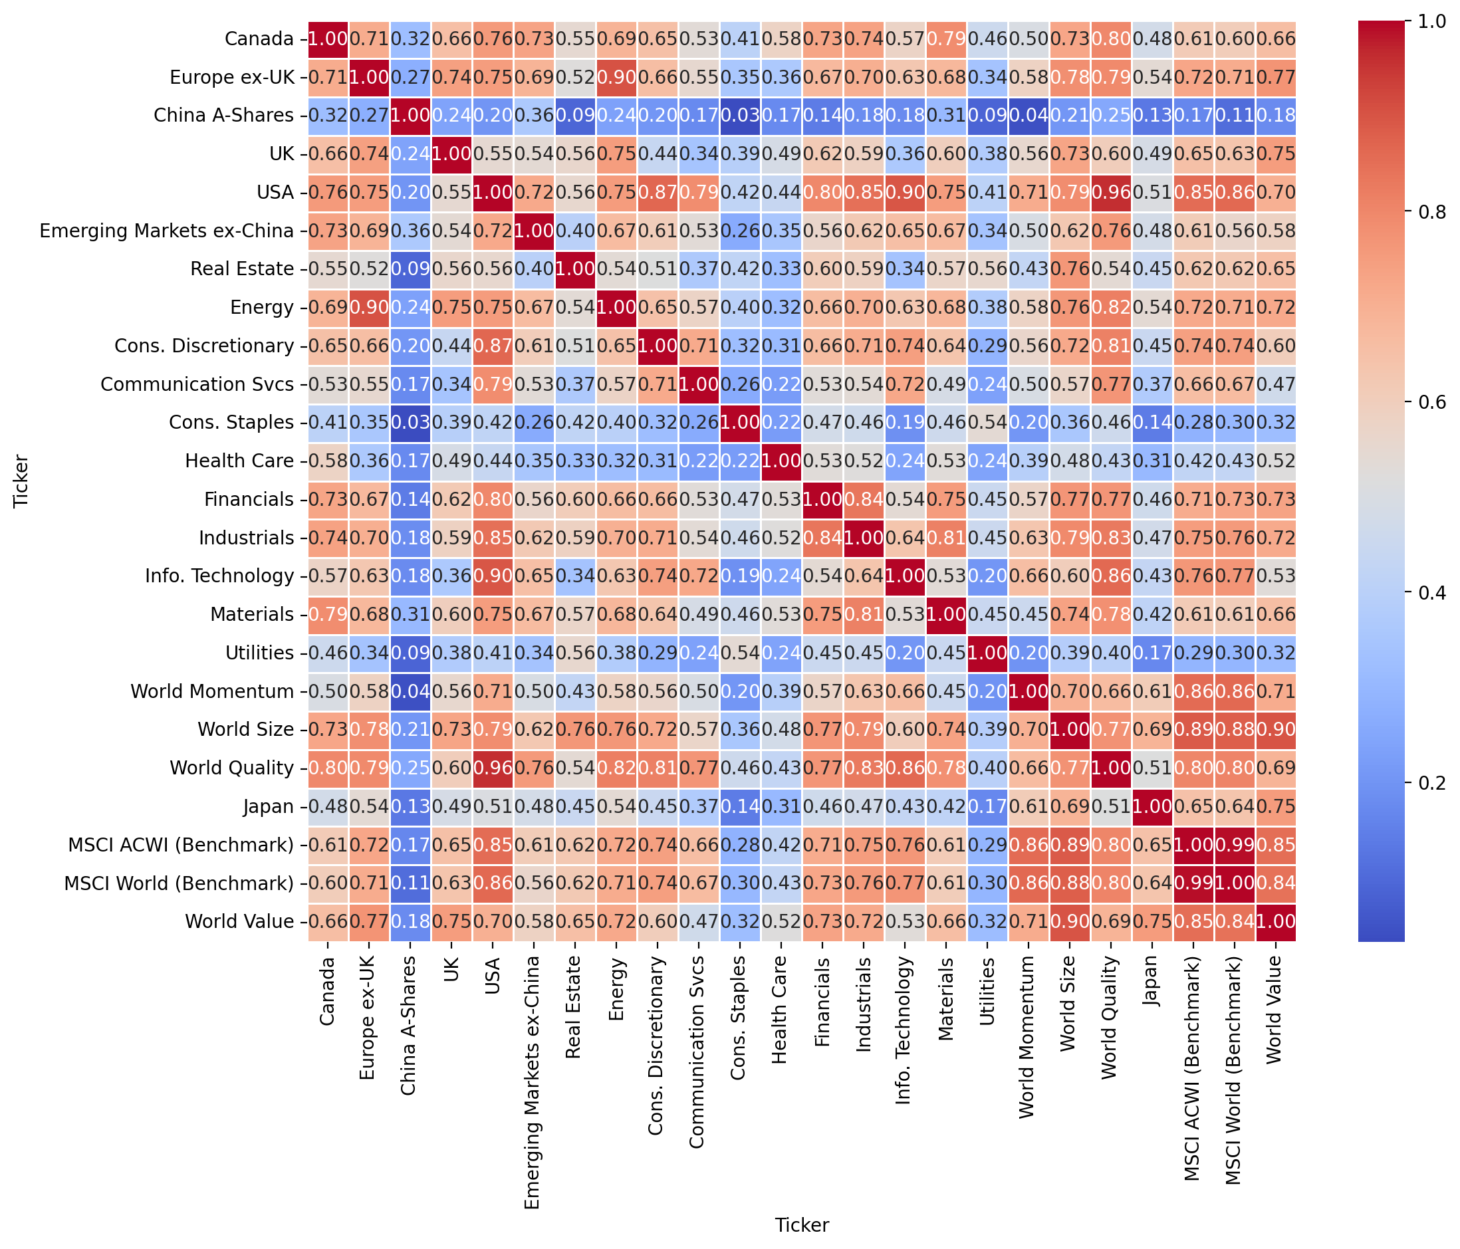
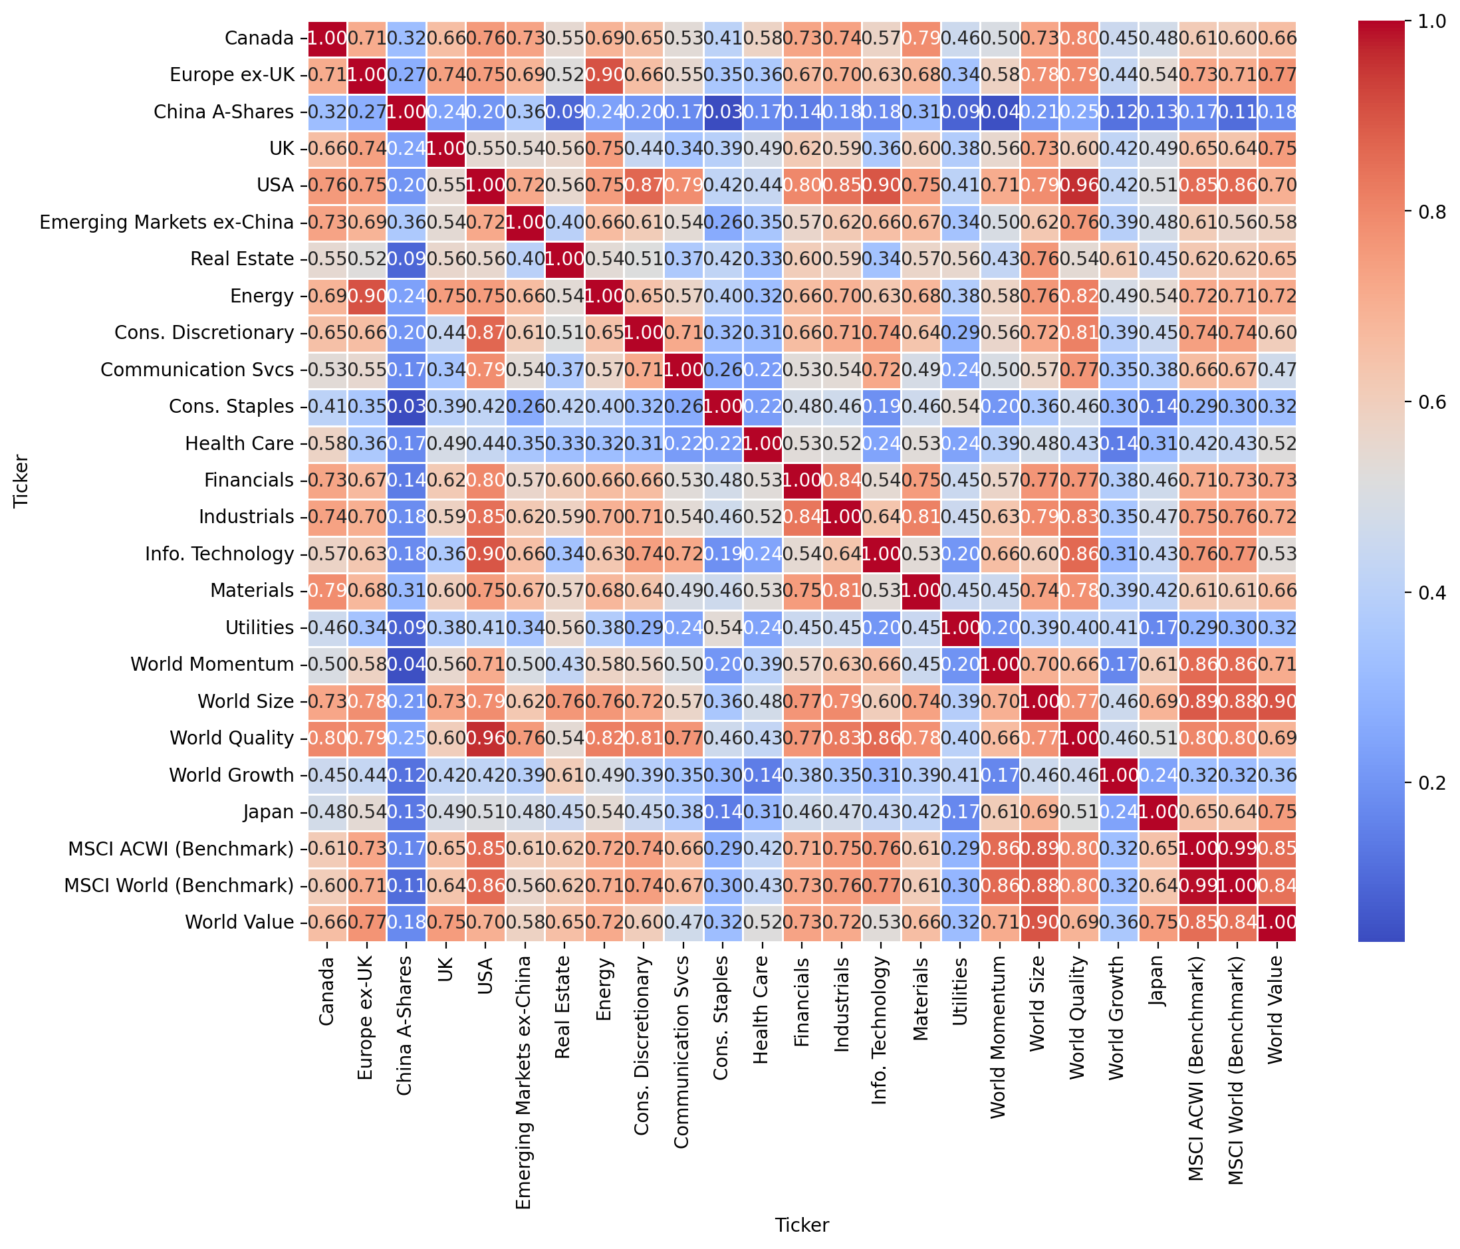
updating images

diff --git a/factor_dashboard.py b/factor_dashboard.py
@@ -18,7 +18,7 @@ FACTOR_TICKERS = {
     "World Momentum": "IWFM.L",
     "World Value": "XDEV.L",
     "World Quality": "IWQU.L",
-    "World Growth": "IWFG.L",
+    "World Growth": "SGRO.L", # Updated to SPDR MSCI World Growth UCITS ETF
     "World Size": "IWFS.L",
 }
 
@@ -107,7 +107,7 @@ def calculate_performance_metrics(data):
         return pd.DataFrame() # Not enough data to calculate
 
     # --- Performance Calculations ---
-    perf_1d = (latest_price / data.iloc[-2]) - 1 # Re-added 1-day performance
+    perf_1d = (latest_price / data.iloc[-2]) - 1 
     perf_wtd = (latest_price / sow_price) - 1
     perf_mtd = (latest_price / som_price) - 1
     perf_qtd = (latest_price / soq_price) - 1
@@ -115,9 +115,9 @@ def calculate_performance_metrics(data):
     
     performance_df = pd.DataFrame({
         "1 Day": perf_1d,
-        "Week To Date": perf_wtd,
-        "Month To Date": perf_mtd,
-        "Quarter To Date": perf_qtd,
+        "Week To Date (WTD)": perf_wtd,
+        "Month To Date (MTD)": perf_mtd,
+        "Quarter To Date (QTD)": perf_qtd,
         "Year To Date (YTD)": perf_ytd,
     })
     

diff --git a/README.md b/README.md
@@ -8,7 +8,7 @@ The dashboard is organized into four main tabs, each providing a unique analytic
 
 ### 1. Factor Performance
 
-* Tracks the performance of key investment styles (Momentum, Value, Quality, Size) against broad market benchmarks like the MSCI World and MSCI ACWI.
+* Tracks the performance of key investment styles (Momentum, Value, Growth, Quality, Size) against broad market benchmarks like the MSCI World and MSCI ACWI.
 
 Rendered result:  
 ![Factor Performance](images/factor_performance.png)
